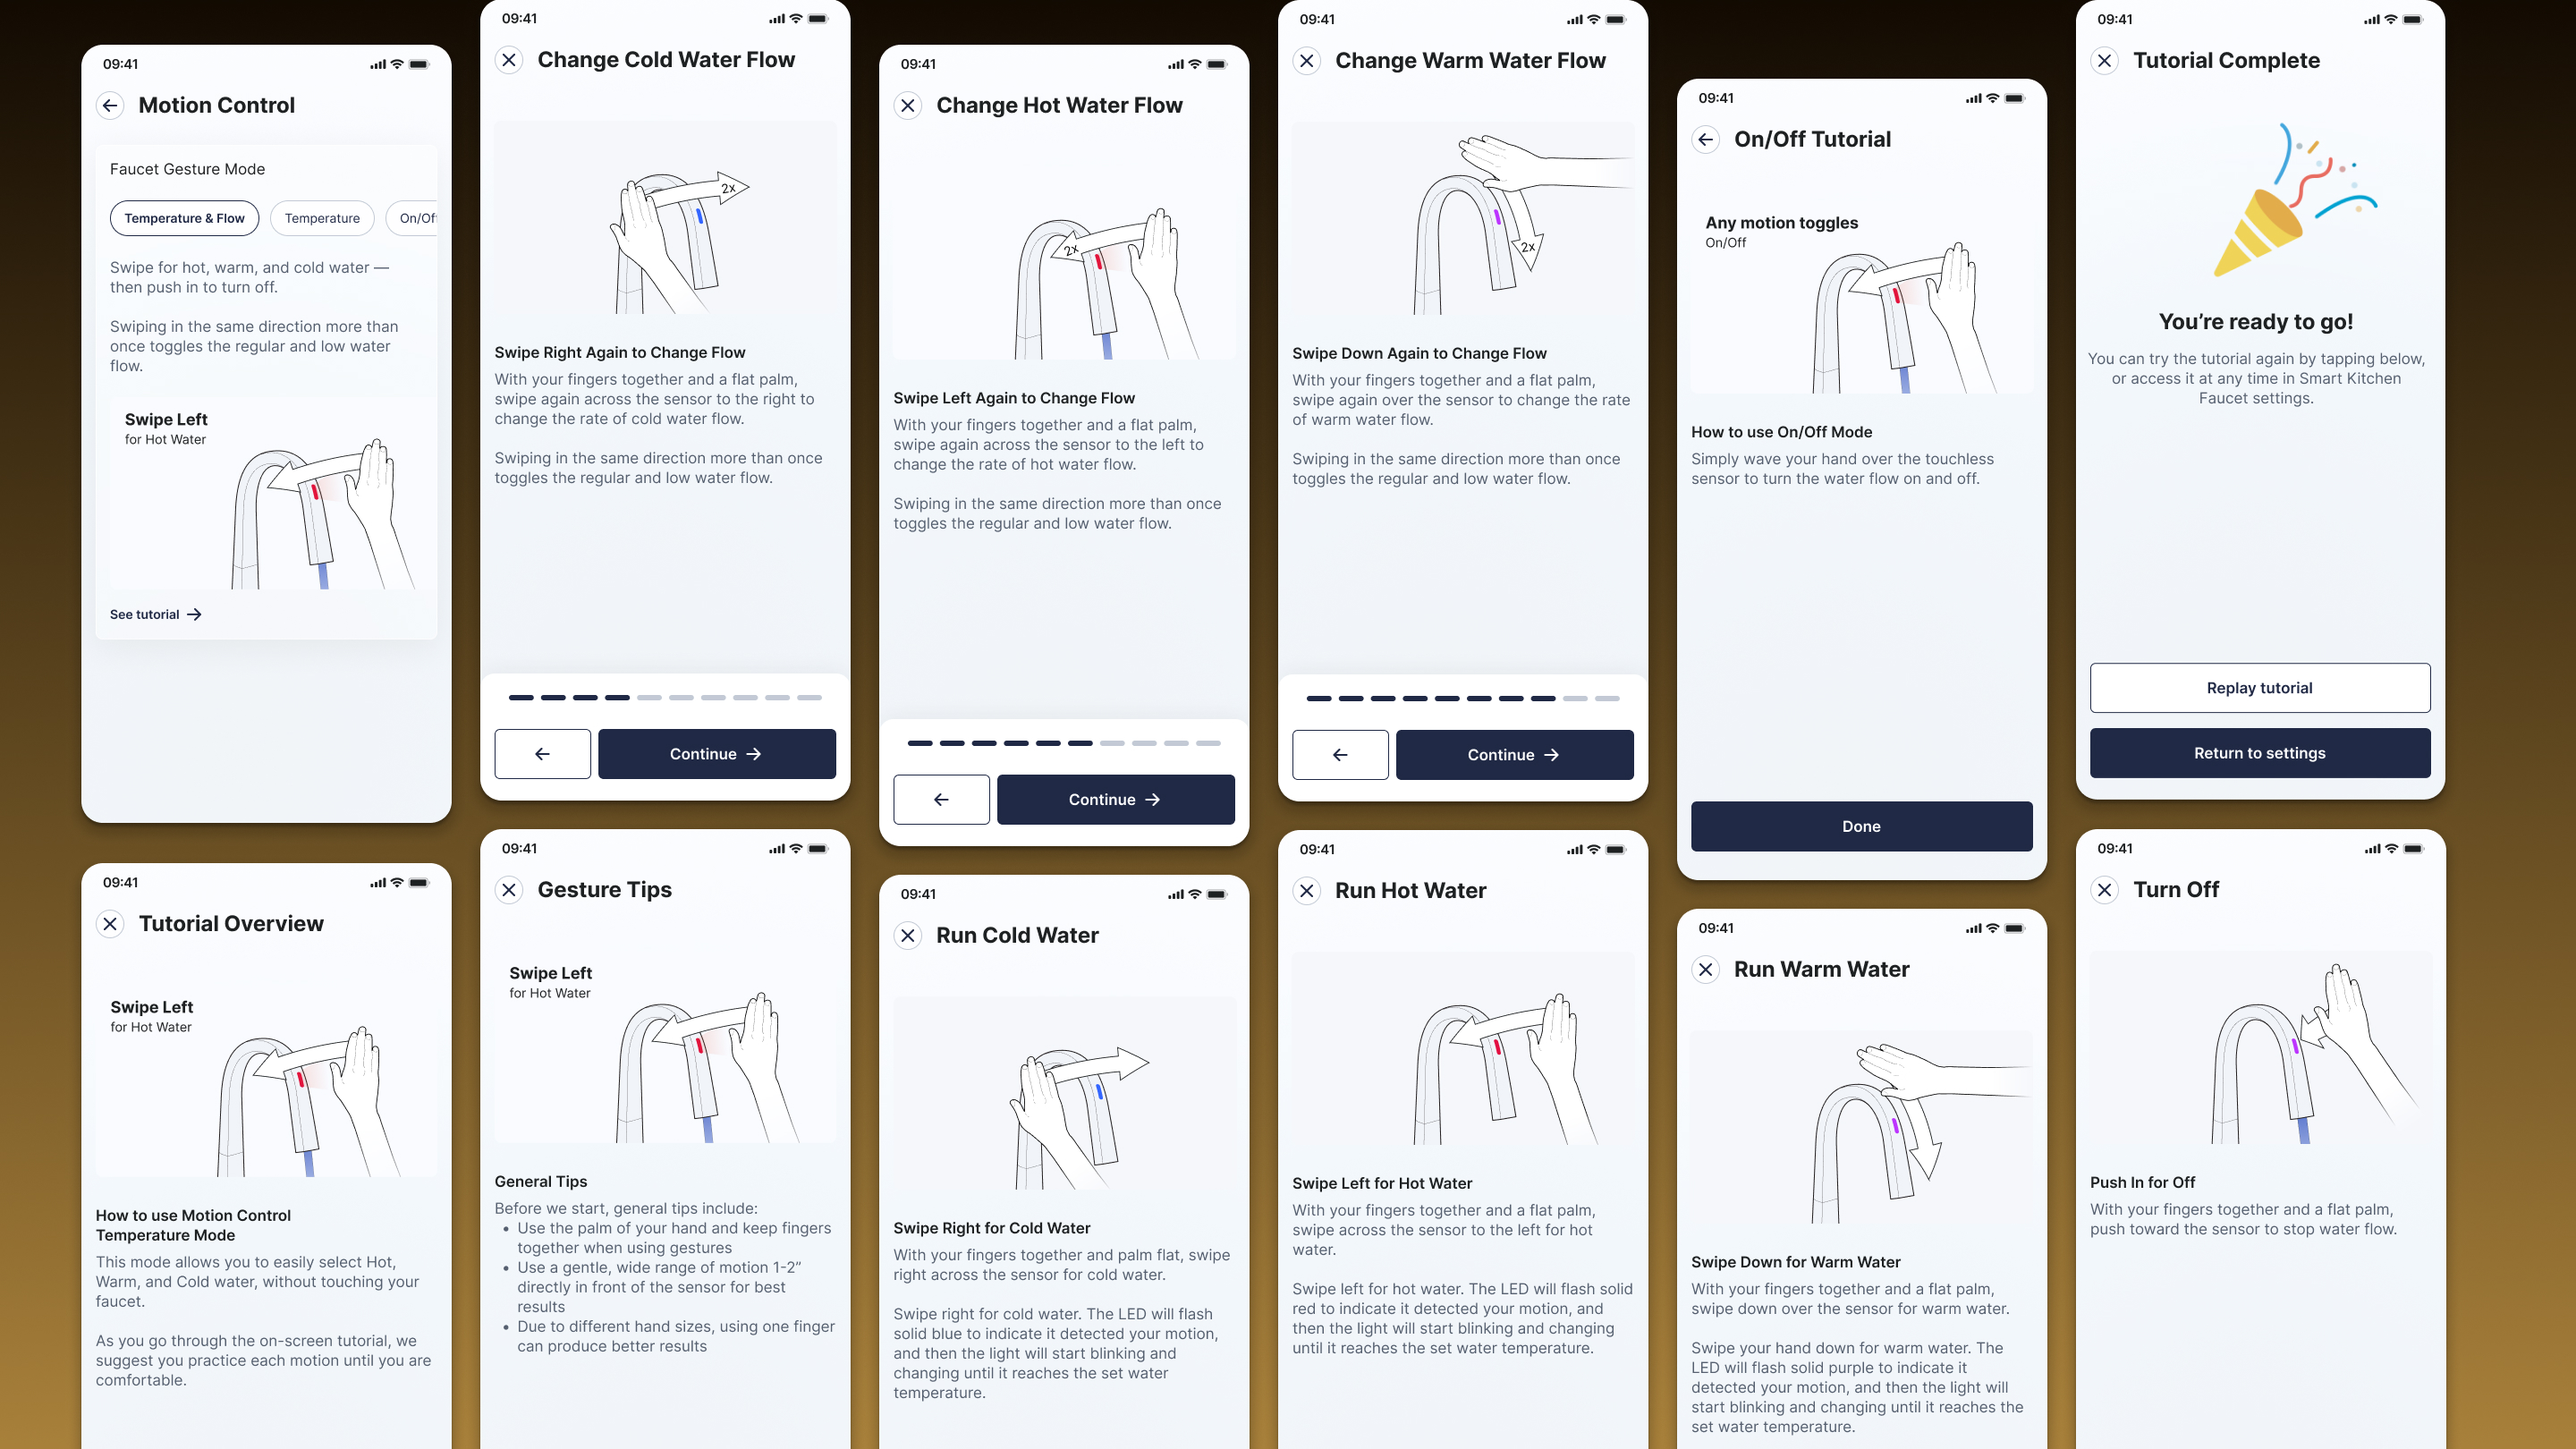
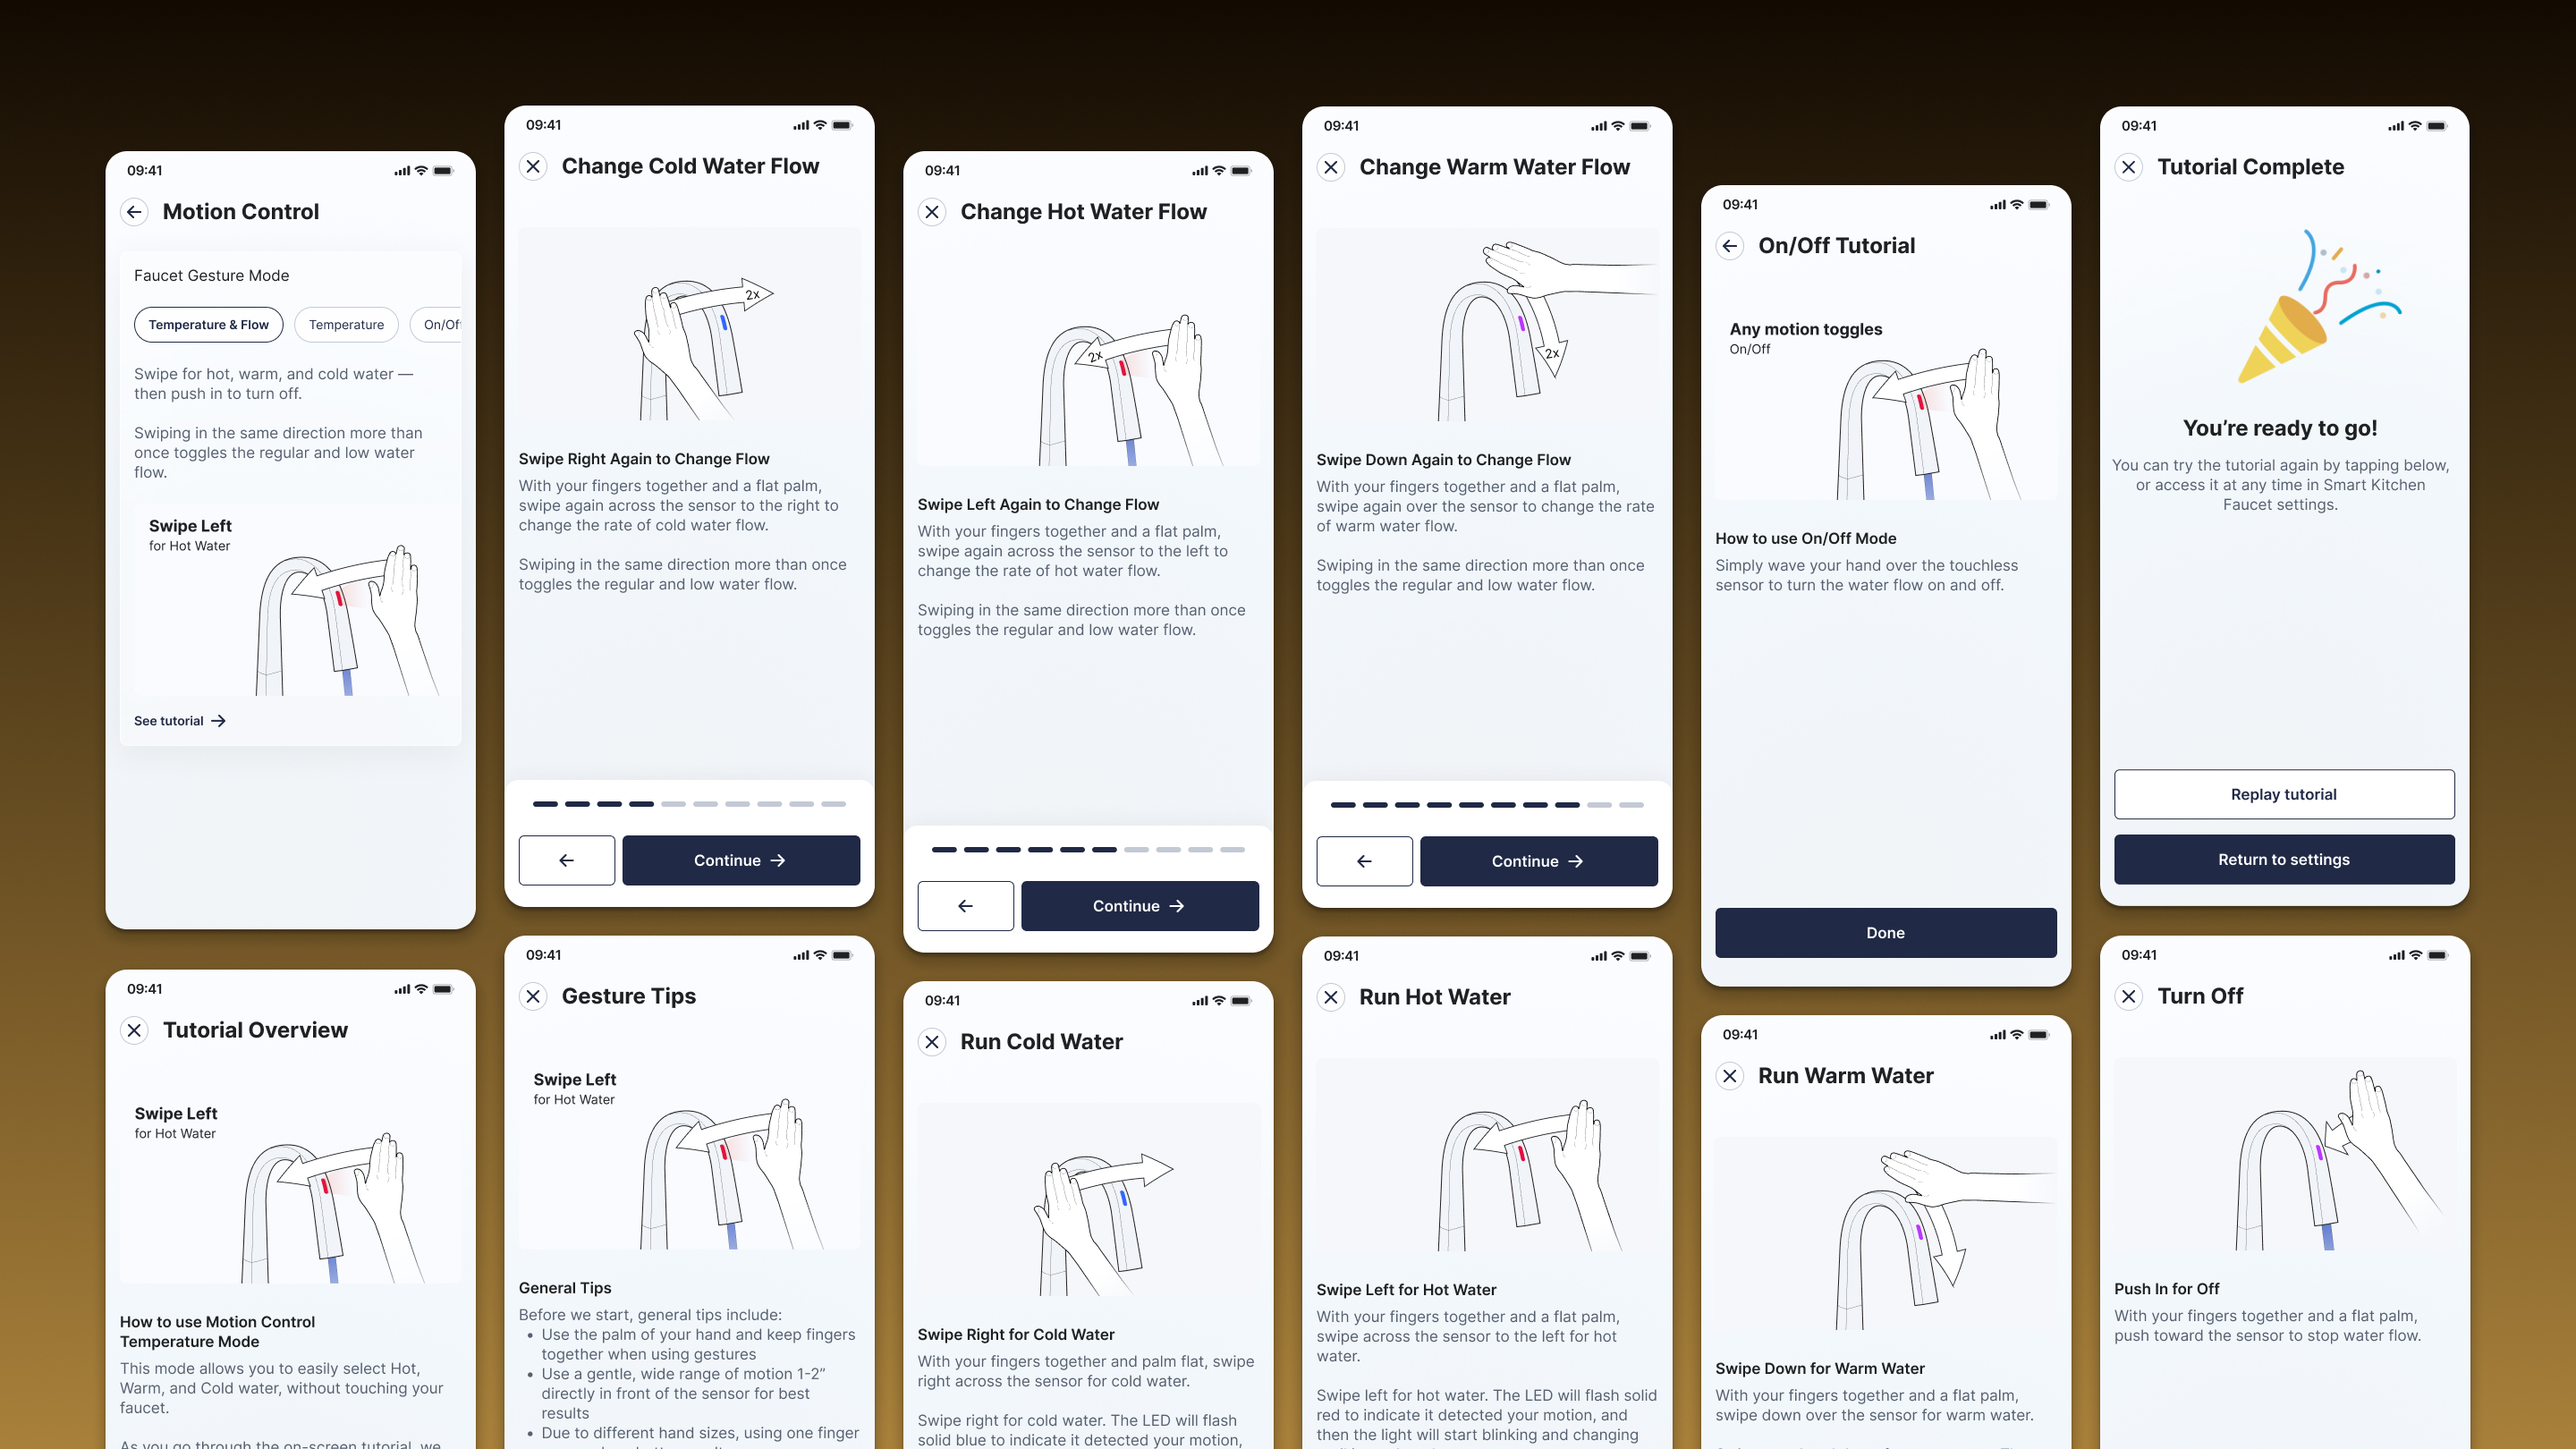
Increased width of the column and font-sizes for better readability. Updated content.

diff --git a/src/app/work/[slug]/page.tsx b/src/app/work/[slug]/page.tsx
@@ -99,8 +99,8 @@ export default function Project({ params }: WorkParams) {
           }),
         }}
       />
-      <Column maxWidth="s" gap="16">
-        <Button href="/work" variant="tertiary" weight="default" size="s" prefixIcon="chevronLeft">
+      <Column maxWidth="m" gap="16">
+        <Button href="/work" variant="tertiary" weight="default" size="m" prefixIcon="chevronLeft">
           Projects
         </Button>
         <Heading variant="display-strong-s">{post.metadata.title}</Heading>
@@ -114,10 +114,10 @@ export default function Project({ params }: WorkParams) {
           src={post.metadata.images[0]}
         />
       )}
-      <Column style={{ margin: "auto" }} as="article" maxWidth="s">
+      <Column style={{ margin: "auto" }} as="article" maxWidth="m">
         <Flex gap="12" marginBottom="24" vertical="center">
           {post.metadata.team && <AvatarGroup reverse avatars={avatars} size="m" />}
-          <Text variant="body-default-s" onBackground="neutral-weak">
+          <Text variant="body-default-m" onBackground="neutral-weak">
             {formatDate(post.metadata.publishedAt)}
           </Text>
         </Flex>

diff --git a/src/once-ui/tokens/theme.scss b/src/once-ui/tokens/theme.scss
@@ -5,17 +5,17 @@
     --font-family-label:    var(--font-tertiary);
     --font-family-code:     var(--font-code);
 
-    --font-size-heading-multiplier:   1;
-    --font-size-body-multiplier:      1;
-    --font-size-label-multiplier:     1;
+    --font-size-heading-multiplier:   1.2;
+    --font-size-body-multiplier:      1.2;
+    --font-size-label-multiplier:     1.2;
 
-    --line-height-heading-multiplier: 1;
-    --line-height-body-multiplier:    1;
-    --line-height-label-multiplier:   1;
+    --line-height-heading-multiplier: 1.2;
+    --line-height-body-multiplier:    1.2;
+    --line-height-label-multiplier:   1.2;
 
     /* FONT SCALING */
-    --font-scaling-desktop: 16px;
-    --font-scaling-tablet:  16px;
+    --font-scaling-desktop: 17px;
+    --font-scaling-tablet:  17px;
     --font-scaling-mobile:  16px;
 
     --cursor-interactive:    pointer;

diff --git a/src/once-ui/styles/typography.scss b/src/once-ui/styles/typography.scss
@@ -107,7 +107,7 @@ h1, h2, h3, h4, h5, h6, p {
     }
 }
 
-.font-body {
+.font-body{
     font-family: var(--font-family-body);
 
     &.font-strong, & > .font-strong {
@@ -196,4 +196,10 @@ h1, h2, h3, h4, h5, h6, p {
         font-size:   calc(var(--font-size-label-s) * var(--font-size-label-multiplier));
         line-height: calc(var(--line-height-label-s) * var(--line-height-label-multiplier));
     }
+}
+
+ol, ul {
+    font-family: var(--font-family-body);
+    font-size:   calc(var(--font-size-body-m) * var(--font-size-body-multiplier));
+    line-height: calc(var(--line-height-body-m) * var(--line-height-body-multiplier));
 }
